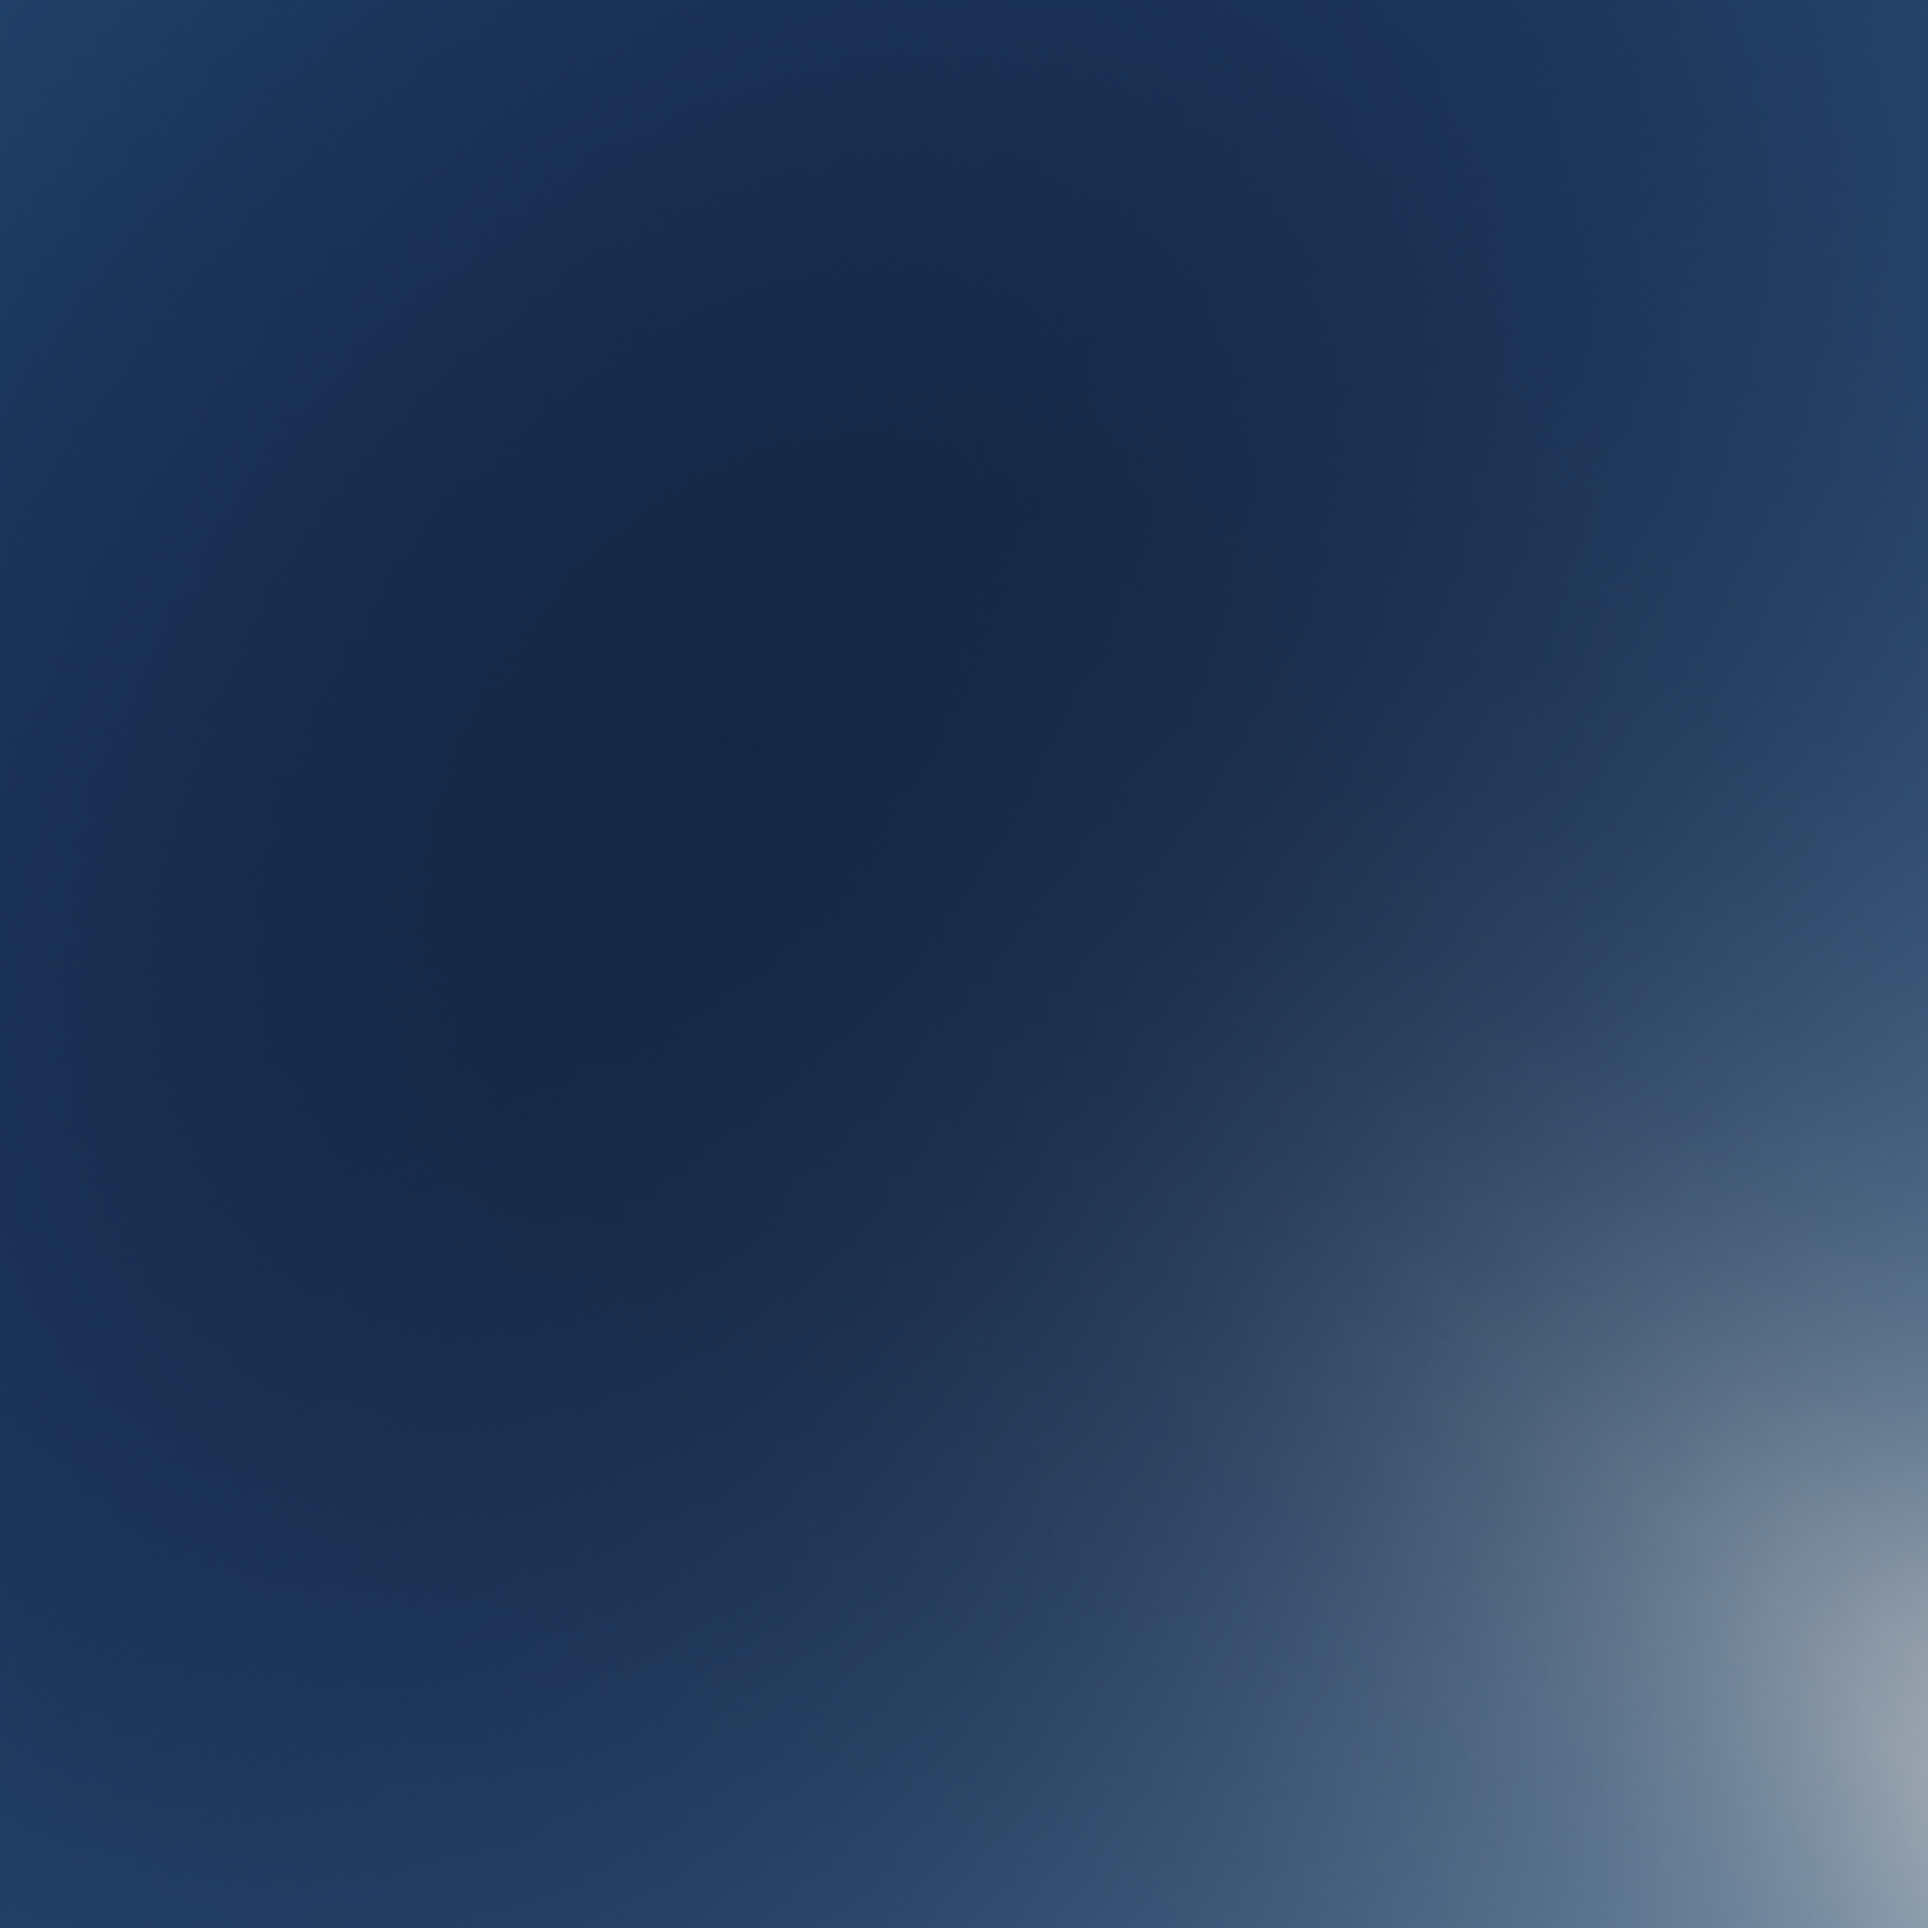
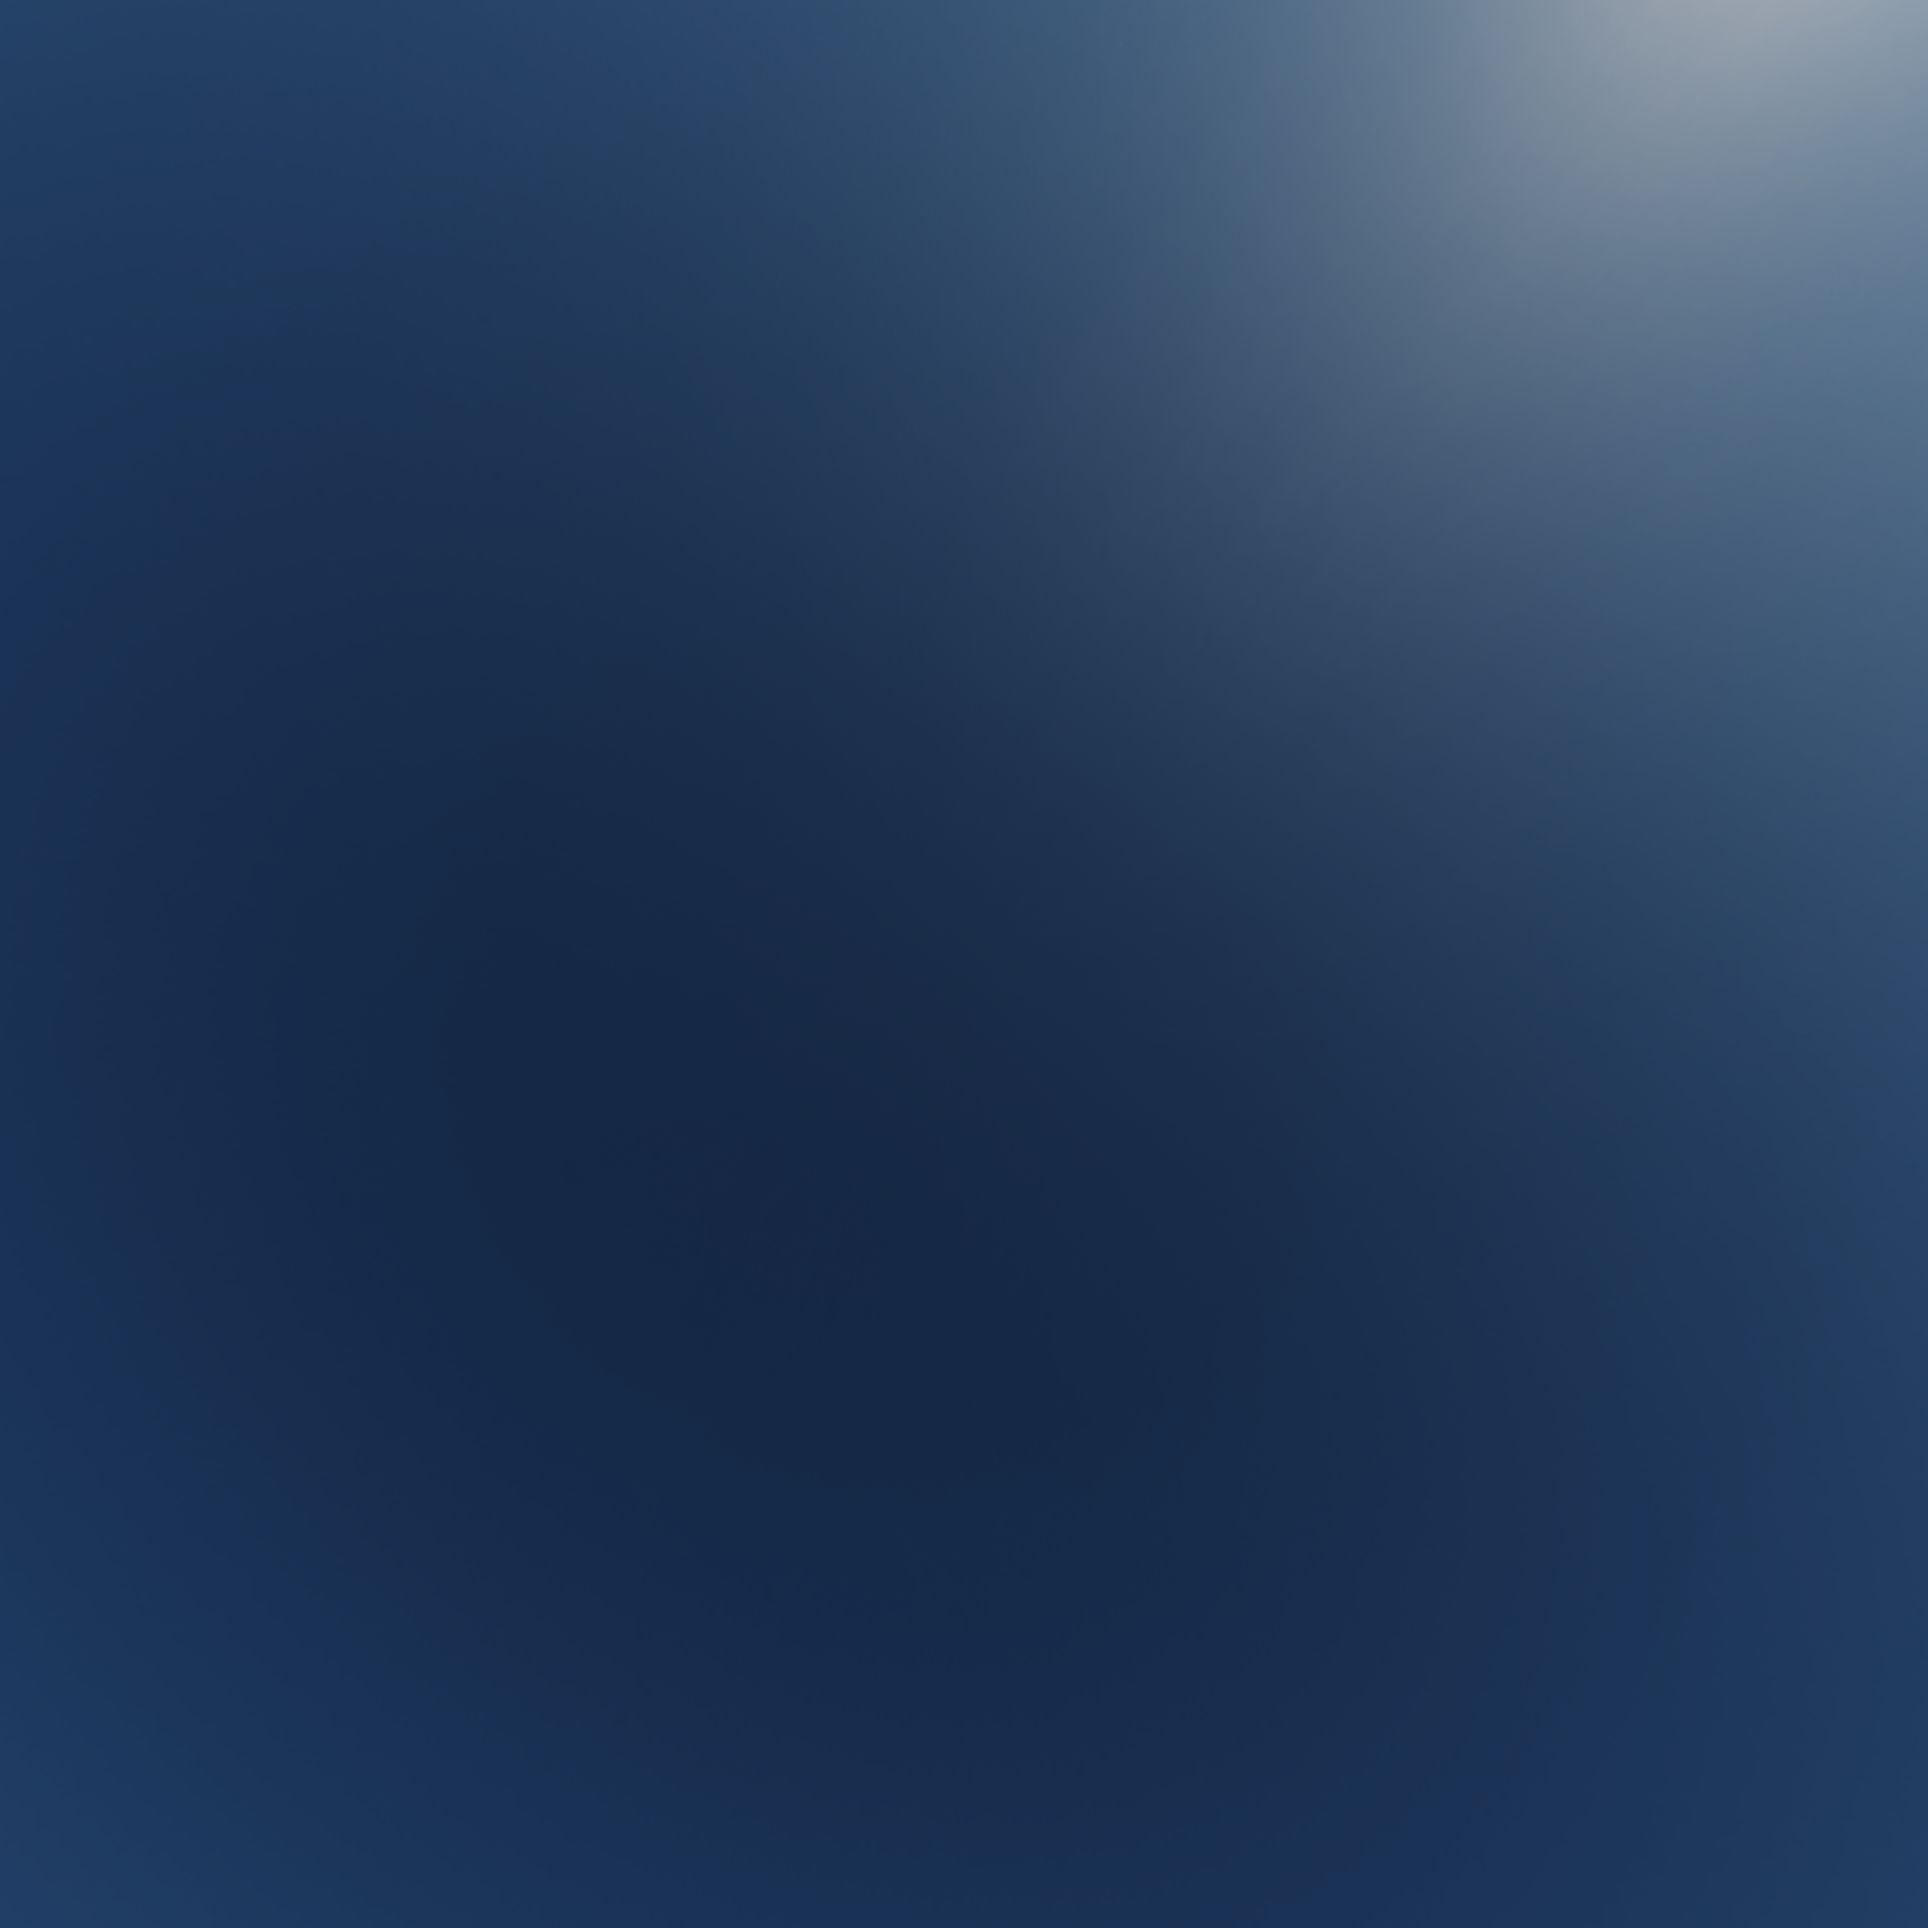
separated skybox files and fixed (inverted xD) rotation

diff --git a/Game.cpp b/Game.cpp
@@ -10,6 +10,7 @@
 #include "stb_image.h"
 #include <iostream>
 #include <fstream>
+#include "Skybox.h"
 
 GLFWwindow* window;
 Camera camera;
@@ -79,88 +80,19 @@ void Game::Init() {
 
     stbi_set_flip_vertically_on_load(true); // Tekstury są zwykle ładowane od góry do dołu w OpenGL
 
-    // Skybox
-    float skyboxVertices[] = {
-        // positions          
-        -1.0f,  1.0f, -1.0f,
-        -1.0f, -1.0f, -1.0f,
-         1.0f, -1.0f, -1.0f,
-         1.0f, -1.0f, -1.0f,
-         1.0f,  1.0f, -1.0f,
-        -1.0f,  1.0f, -1.0f,
-
-        -1.0f, -1.0f,  1.0f,
-        -1.0f, -1.0f, -1.0f,
-        -1.0f,  1.0f, -1.0f,
-        -1.0f,  1.0f, -1.0f,
-        -1.0f,  1.0f,  1.0f,
-        -1.0f, -1.0f,  1.0f,
-
-         1.0f, -1.0f, -1.0f,
-         1.0f, -1.0f,  1.0f,
-         1.0f,  1.0f,  1.0f,
-         1.0f,  1.0f,  1.0f,
-         1.0f,  1.0f, -1.0f,
-         1.0f, -1.0f, -1.0f,
-
-        -1.0f, -1.0f,  1.0f,
-        -1.0f,  1.0f,  1.0f,
-         1.0f,  1.0f,  1.0f,
-         1.0f,  1.0f,  1.0f,
-         1.0f, -1.0f,  1.0f,
-        -1.0f, -1.0f,  1.0f,
-
-        -1.0f,  1.0f, -1.0f,
-         1.0f,  1.0f, -1.0f,
-         1.0f,  1.0f,  1.0f,
-         1.0f,  1.0f,  1.0f,
-        -1.0f,  1.0f,  1.0f,
-        -1.0f,  1.0f, -1.0f,
-
-        -1.0f, -1.0f, -1.0f,
-        -1.0f, -1.0f,  1.0f,
-         1.0f, -1.0f, -1.0f,
-         1.0f, -1.0f, -1.0f,
-        -1.0f, -1.0f,  1.0f,
-         1.0f, -1.0f,  1.0f
-    };
-
-    // skybox VAO
-    glGenVertexArrays(1, &skyboxVAO);
-    glGenBuffers(1, &skyboxVBO);
-    glBindVertexArray(skyboxVAO);
-    glBindBuffer(GL_ARRAY_BUFFER, skyboxVBO);
-    glBufferData(GL_ARRAY_BUFFER, sizeof(skyboxVertices), skyboxVertices, GL_STATIC_DRAW);
-    glEnableVertexAttribArray(0);
-    glVertexAttribPointer(0, 3, GL_FLOAT, GL_FALSE, 3 * sizeof(float), (void*)0);
-    glBindVertexArray(0);  // WAŻNE: odłącz VAO
-
-    // load textures
-    std::vector<std::string> faces = {
-        "prawo.png", 
-        "lewo.png", 
-        "gora.png",
-        "dol.png", 
-        "przod.png", 
-        "tyl.png"
-    };
-
-    // Sprawdź czy pliki istnieją
-    for (auto& path : faces) {
-        std::ifstream file(path);
-        if (!file.good()) {
-            std::cerr << "Brak pliku: " << path << std::endl;
-        }
-    }
-
-    cubemapTexture = LoadCubemap(faces);
-    if (cubemapTexture == 0) {
-        std::cerr << "Błąd ładowania skyboxa!" << std::endl;
-    }
-    std::cout << "Skybox zaladowany, ID: " << cubemapTexture << std::endl;
-
-    // create shader
+    // Initialize the skybox shader
     skyboxShader = new Shader("skybox.vert", "skybox.frag");
+
+    // Load the skybox
+    skybox = new Skybox();
+    std::vector<std::string> faces = {
+        "prawo.png", "lewo.png", "dol.png",
+        "gora.png", "przod.png", "tyl.png"
+    };
+
+    if (!skybox->Load(faces)) {
+        std::cerr << "Failed to load skybox!" << std::endl;
+    }
 }
 
 bool Game::ShouldClose() {
@@ -195,26 +127,10 @@ void Game::Render() {
     shader->setMat4("projection", camera.GetProjectionMatrix());
     maze.Render(*shader);
 
-    // 3. Renderowanie skyboxa - ZMIENIONE
-    glDepthFunc(GL_LEQUAL);
-    skyboxShader->use();
-
-    // Usuń translację z macierzy widoku
-    glm::mat4 view = glm::mat4(glm::mat3(camera.GetViewMatrix()));
-    skyboxShader->setMat4("view", view);
-    skyboxShader->setMat4("projection", camera.GetProjectionMatrix());
-
-    // Ustaw teksturę
-    glActiveTexture(GL_TEXTURE0);
-    glBindTexture(GL_TEXTURE_CUBE_MAP, cubemapTexture);
-    skyboxShader->setInt("skybox", 0);  // WAŻNE: Ustawienie uniforma
-
-    // Rysowanie
-    glBindVertexArray(skyboxVAO);
-    glDrawArrays(GL_TRIANGLES, 0, 36);
-    glBindVertexArray(0);
-
-    glDepthFunc(GL_LESS);
+    // 3. Renderowanie skyboxa
+    if (skybox) {
+        skybox->Draw(camera.GetViewMatrix(), camera.GetProjectionMatrix());
+    }
 
     // 4. Renderowanie UI
     ui.Render();
@@ -230,9 +146,8 @@ void Game::Render() {
 }
 
 void Game::Cleanup() {
-    glDeleteVertexArrays(1, &skyboxVAO);
-    glDeleteBuffers(1, &skyboxVBO);
-    glDeleteTextures(1, &cubemapTexture);  // WAŻNE
+    delete skybox;  
+    skybox = nullptr;
     delete shader;
     delete uiShader;
     delete skyboxShader;

diff --git a/Game.h b/Game.h
@@ -1,7 +1,8 @@
 #pragma once
 
-// Forward declaration of Shader class
+// Forward declarations
 class Shader;
+class Skybox;  // Dodaj forward declaration dla Skybox
 
 class Game {
 public:
@@ -11,10 +12,12 @@ public:
     void Render();
     void Cleanup();
     bool ShouldClose();
+
 private:
     float deltaTime = 0.016f;
-    unsigned int skyboxVAO = 0; // Initialize to 0
-    unsigned int skyboxVBO = 0; // Initialize to 0
-    unsigned int cubemapTexture = 0; // Initialize to 0
-    Shader* skyboxShader = nullptr; // Initialize to nullptr
+
+
+    Skybox* skybox = nullptr;  
+    Shader* shader = nullptr;  
+    Shader* skyboxShader = nullptr;
 };

diff --git a/Skybox.h b/Skybox.h
@@ -1,0 +1,26 @@
+#ifndef SKYBOX_H
+#define SKYBOX_H
+
+#include <glad/glad.h>
+#include <vector>
+#include <string>
+#include <glm/glm.hpp> 
+#include <glm/gtc/matrix_transform.hpp> 
+#include <glm/gtc/type_ptr.hpp> 
+
+
+class Skybox {
+public:
+    Skybox();
+    ~Skybox();
+
+    bool Load(const std::vector<std::string>& faceTextures);
+    void Draw(const glm::mat4& view, const glm::mat4& projection);
+
+private:
+    GLuint VAO, VBO;
+    GLuint cubemapTexture;
+    GLuint shaderProgram;
+};
+
+#endif
